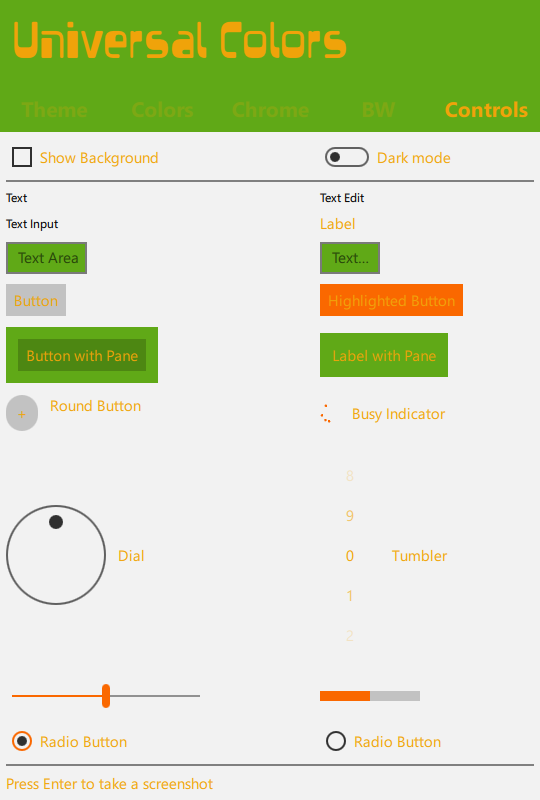
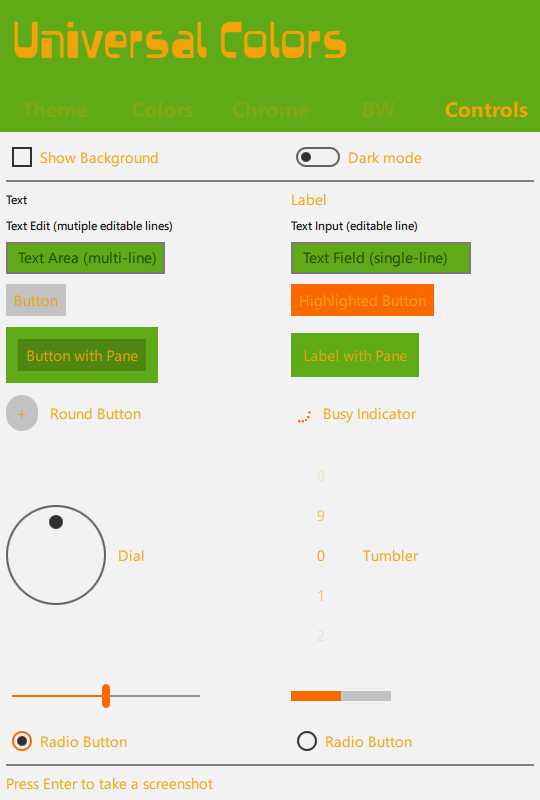
Taille des champs texte

diff --git a/Qml/Vues/ControlsTabForm.ui.qml b/Qml/Vues/ControlsTabForm.ui.qml
@@ -29,28 +29,29 @@ Rectangle {
         Text {
             text: "Text"
         }
+        Label {
+            id: label
+            text: "Label"
+        }
         TextEdit {
             id: textEdit
-            text: "Text Edit"
+            text: "Text Edit (mutiple editable lines)"
         }
         TextInput {
             id: textInput
             width: 100
             height: 20
-            text: qsTr("Text Input")
+            text: qsTr("Text Input (editable line)")
             font.pixelSize: 12
-        }
-        Label {
-            id: label
-            text: "Label"
         }
         TextArea {
             id: textArea
-            placeholderText: "Text Area"
+            placeholderText: "Text Area (multi-line)"
         }
         TextField {
             id: textField
-            placeholderText: qsTr("Text Field")
+            placeholderText: "Text Field (single-line)"
+            implicitWidth: 180
         }
         Button {
             id: button_low
@@ -81,6 +82,7 @@ Rectangle {
             Label {
                 text: "Round Button"
                 leftPadding: 12
+                anchors.verticalCenter: parent.verticalCenter
             }
         }
         Row {
@@ -90,6 +92,7 @@ Rectangle {
             Label {
                 text: "Busy Indicator"
                 leftPadding: 12
+                anchors.verticalCenter: parent.verticalCenter
             }
         }
         Row {
